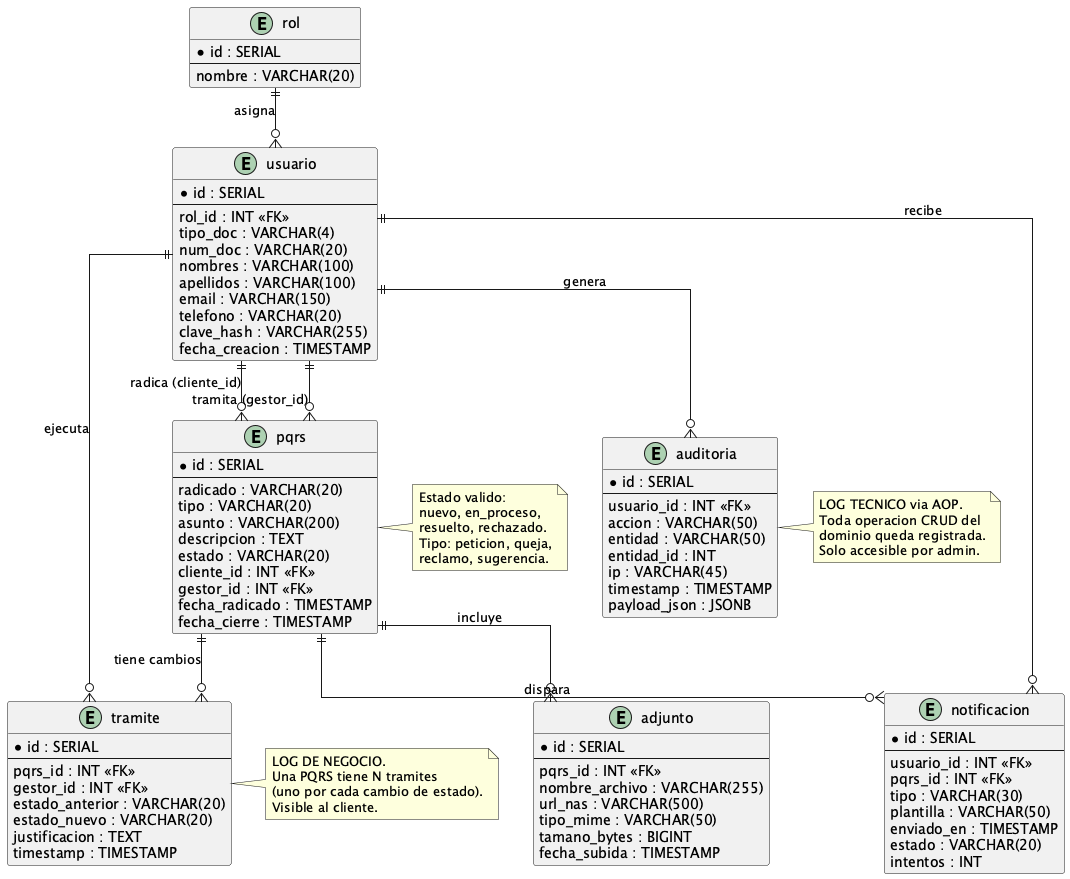
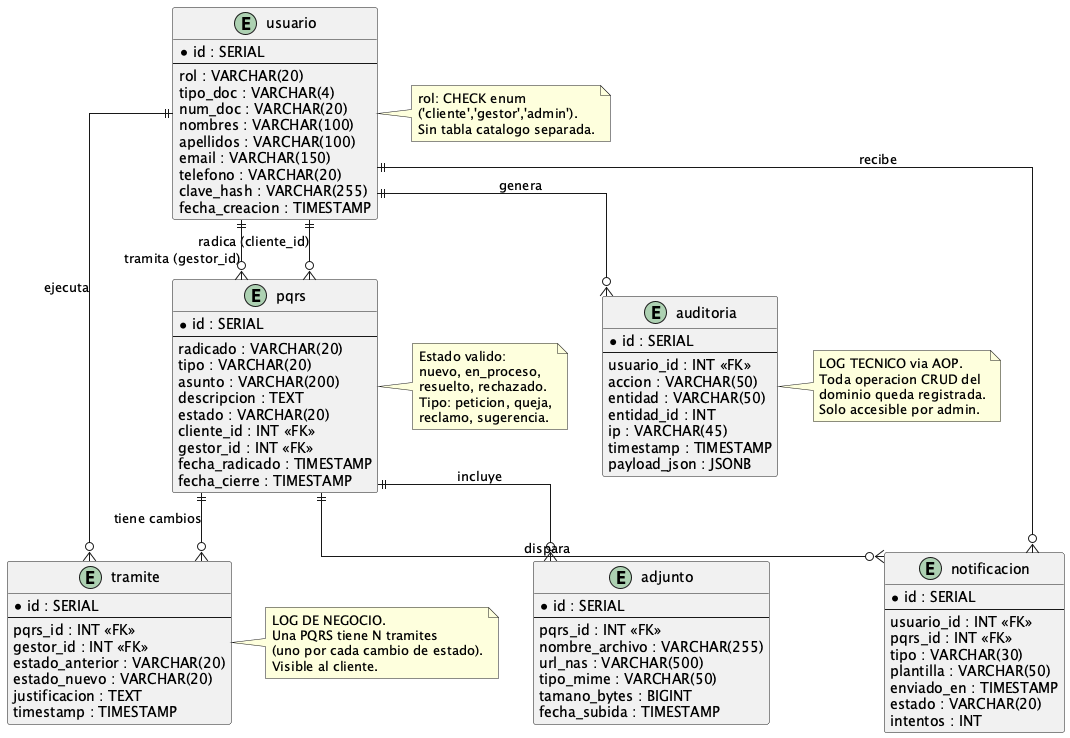
refactor: drop rol table in favor of check constraint on usuario.rol

diff --git a/Proyecto-Final/docs/11-Modelo-Entidad-Relacion.md b/Proyecto-Final/docs/11-Modelo-Entidad-Relacion.md
@@ -8,8 +8,6 @@
 
 El presente documento describe el modelo de datos persistente del sistema PQRS. Esta basado en los requerimientos funcionales (`7-Requerimientos-Funcionales.md`) y casos de uso (`casos-de-uso/`) del proyecto, y se alinea con la Vista de Datos del documento de arquitectura ([`9-Arquitectura-PQRS.md`](./9-Arquitectura-PQRS.md), seccion 7).
 
-El formato PlantUML del diagrama reusa el estilo del Taller-6 (`Taller-6/Diagramas/6-Vista-Datos/1-Modelo-Entidad-Relacion.puml`) adaptado al dominio PQRS.
-
 ---
 
 ## 2. Diagrama MER
@@ -26,19 +24,19 @@ Render: `diagramas/mer/mer-pqrs.png` (generar con `plantuml mer-pqrs.puml` o her
 
 | Entidad | Proposito |
 |---|---|
-| `rol` | Catalogo de roles del sistema: cliente, gestor, admin. |
-| `usuario` | Centraliza Cliente, Gestor y Admin. Discriminado por `rol_id`. |
+| `usuario` | Centraliza Cliente, Gestor y Admin. Discriminado por el atributo `rol` (CHECK enum, no tabla separada). |
 | `pqrs` | Cabecera de cada radicado. Estado actual + metadata. |
 | `tramite` | Log de negocio: cada cambio de estado de una PQRS. |
 | `adjunto` | Metadata del PDF anexado. El archivo binario vive en NAS. |
 | `notificacion` | Cola de correos transaccionales. |
 | `auditoria` | Log tecnico via AOP. Toda operacion CRUD del dominio. |
 
+> **Nota sobre roles:** los roles del sistema (`cliente`, `gestor`, `admin`) se modelan como un CHECK constraint sobre `usuario.rol`, no como tabla catalogo separada. Decision tomada para reducir joins en queries frecuentes (bandeja, autorizacion) y porque el conjunto de roles es cerrado y conocido de antemano. Cambios en el conjunto requieren migracion Flyway, no escritura en runtime.
+
 ### 3.2 Relaciones principales
 
 | De | A | Cardinalidad | Significado |
 |---|---|---|---|
-| `rol` | `usuario` | 1—N | Un rol agrupa varios usuarios. |
 | `usuario` | `pqrs` (cliente_id) | 1—N | Un cliente puede radicar varias PQRS. |
 | `usuario` | `pqrs` (gestor_id) | 1—N (nullable) | Un gestor tramita varias PQRS. El `gestor_id` es nullable porque al radicar la PQRS aun no esta asignada. |
 | `usuario` | `tramite` (gestor_id) | 1—N | Un gestor ejecuta varios tramites. |
@@ -69,6 +67,7 @@ No son redundantes. Cumplen roles ortogonales: uno es para el cliente, otro es p
 ### 4.2 Constraints CHECK
 
 - `usuario.tipo_doc IN ('CC', 'CE', 'TI', 'PP')`
+- `usuario.rol IN ('cliente', 'gestor', 'admin')`
 - `pqrs.tipo IN ('peticion', 'queja', 'reclamo', 'sugerencia')`
 - `pqrs.estado IN ('nuevo', 'en_proceso', 'resuelto', 'rechazado')`
 - `adjunto.tipo_mime = 'application/pdf'` (solo PDF permitidos)
@@ -91,19 +90,12 @@ Optimizan las queries mas frecuentes del backend (bandeja, historial, notificaci
 
 > Esta seccion cubre el entregable opcional **#15 Diccionario de Datos**. Especifica cada columna del modelo: tipo SQL, nulabilidad, descripcion, ejemplo y validaciones.
 
-### 5.1 Tabla `rol`
-
-| Columna | Tipo SQL | Null | Descripcion | Ejemplo | Validaciones |
-|---|---|---|---|---|---|
-| id | SERIAL | NO | PK auto-incremental | 1 | Generado por la BD |
-| nombre | VARCHAR(20) | NO | Nombre del rol | "cliente" | UNIQUE, IN ('cliente','gestor','admin') |
-
-### 5.2 Tabla `usuario`
+### 5.1 Tabla `usuario`
 
 | Columna | Tipo SQL | Null | Descripcion | Ejemplo | Validaciones |
 |---|---|---|---|---|---|
 | id | SERIAL | NO | PK auto-incremental | 42 | Generado por la BD |
-| rol_id | INT | NO | FK a `rol(id)` | 1 | REFERENCES rol(id) |
+| rol | VARCHAR(20) | NO | Rol del usuario | "cliente" | CHECK IN ('cliente','gestor','admin') |
 | tipo_doc | VARCHAR(4) | NO | Tipo de documento | "CC" | IN ('CC','CE','TI','PP') |
 | num_doc | VARCHAR(20) | NO | Numero de documento | "1020304050" | UNIQUE, solo digitos para CC/TI, alfanumerico para PP |
 | nombres | VARCHAR(100) | NO | Nombres del usuario | "Juan Carlos" | Longitud 2..100 |
@@ -113,7 +105,7 @@ Optimizan las queries mas frecuentes del backend (bandeja, historial, notificaci
 | clave_hash | VARCHAR(255) | NO | Hash BCrypt de la clave | "$2a$12$..." | BCrypt cost 12 |
 | fecha_creacion | TIMESTAMP | NO | Timestamp de alta | "2026-05-15 10:00:00" | DEFAULT NOW() |
 
-### 5.3 Tabla `pqrs`
+### 5.2 Tabla `pqrs`
 
 | Columna | Tipo SQL | Null | Descripcion | Ejemplo | Validaciones |
 |---|---|---|---|---|---|
@@ -128,7 +120,7 @@ Optimizan las queries mas frecuentes del backend (bandeja, historial, notificaci
 | fecha_radicado | TIMESTAMP | NO | Fecha de radicacion | "2026-05-15 10:05:00" | DEFAULT NOW() |
 | fecha_cierre | TIMESTAMP | YES | Fecha de cierre (si aplica) | "2026-05-20 16:30:00" | Solo si estado IN ('resuelto','rechazado') |
 
-### 5.4 Tabla `tramite`
+### 5.3 Tabla `tramite`
 
 | Columna | Tipo SQL | Null | Descripcion | Ejemplo | Validaciones |
 |---|---|---|---|---|---|
@@ -140,7 +132,7 @@ Optimizan las queries mas frecuentes del backend (bandeja, historial, notificaci
 | justificacion | TEXT | NO | Razon del cambio | "Se inicia investigacion..." | Longitud minima 10 caracteres, no solo espacios |
 | timestamp | TIMESTAMP | NO | Fecha del cambio | "2026-05-15 11:00:00" | DEFAULT NOW() |
 
-### 5.5 Tabla `adjunto`
+### 5.4 Tabla `adjunto`
 
 | Columna | Tipo SQL | Null | Descripcion | Ejemplo | Validaciones |
 |---|---|---|---|---|---|
@@ -152,7 +144,7 @@ Optimizan las queries mas frecuentes del backend (bandeja, historial, notificaci
 | tamano_bytes | BIGINT | NO | Tamaño en bytes | 102400 | <= 5242880 (5 MB) |
 | fecha_subida | TIMESTAMP | NO | Fecha de subida | "2026-05-15 10:05:30" | DEFAULT NOW() |
 
-### 5.6 Tabla `notificacion`
+### 5.5 Tabla `notificacion`
 
 | Columna | Tipo SQL | Null | Descripcion | Ejemplo | Validaciones |
 |---|---|---|---|---|---|
@@ -165,7 +157,7 @@ Optimizan las queries mas frecuentes del backend (bandeja, historial, notificaci
 | estado | VARCHAR(20) | NO | Estado del envio | "enviada" | IN ('pendiente','enviada','fallida') |
 | intentos | INT | NO | Numero de reintentos | 0 | DEFAULT 0, max 5 |
 
-### 5.7 Tabla `auditoria`
+### 5.6 Tabla `auditoria`
 
 | Columna | Tipo SQL | Null | Descripcion | Ejemplo | Validaciones |
 |---|---|---|---|---|---|
@@ -195,5 +187,4 @@ Optimizan las queries mas frecuentes del backend (bandeja, historial, notificaci
 - Casos de uso: [`casos-de-uso/`](./casos-de-uso/) — fuente de las entidades modeladas.
 - Requerimientos funcionales: [`7-Requerimientos-Funcionales.md`](./7-Requerimientos-Funcionales.md) — cada RF se traduce a operaciones sobre estas entidades.
 - Documento de arquitectura: [`9-Arquitectura-PQRS.md`](./9-Arquitectura-PQRS.md) — Vista de Datos (seccion 7).
-- Referencia metodologica: [`../Taller-6/Diagramas/6-Vista-Datos/1-Modelo-Entidad-Relacion.puml`](../../Taller-6/Diagramas/6-Vista-Datos/1-Modelo-Entidad-Relacion.puml) — formato base reusado.
-- Implementacion: cuando Brian arranque el modulo DB, las migraciones Flyway en `Proyecto-Final/database/migrations/` materializaran este modelo.
+- Implementacion: las migraciones Flyway en [`Proyecto-Final/database/migrations/`](../database/migrations/) materializan este modelo.

diff --git a/Proyecto-Final/docs/9-Arquitectura-PQRS.md b/Proyecto-Final/docs/9-Arquitectura-PQRS.md
@@ -274,8 +274,7 @@ Ver [`diagramas/arquitectura/5-vista-fisica.puml`](./diagramas/arquitectura/5-vi
 
 | Entidad | Descripcion |
 |---|---|
-| `usuario` | Centraliza Cliente, Gestor y Admin. Discriminado por `rol`. |
-| `rol` | Catalogo de roles. |
+| `usuario` | Centraliza Cliente, Gestor y Admin. Discriminado por el atributo `rol` (CHECK enum). |
 | `pqrs` | Cabecera de cada radicado. Estado, tipo, fechas, FK al cliente y al gestor asignado. |
 | `tramite` | Log de cambios de estado de la PQRS. Una PQRS tiene N tramites. |
 | `adjunto` | Metadata del PDF adjunto. El archivo binario vive en NAS. |
